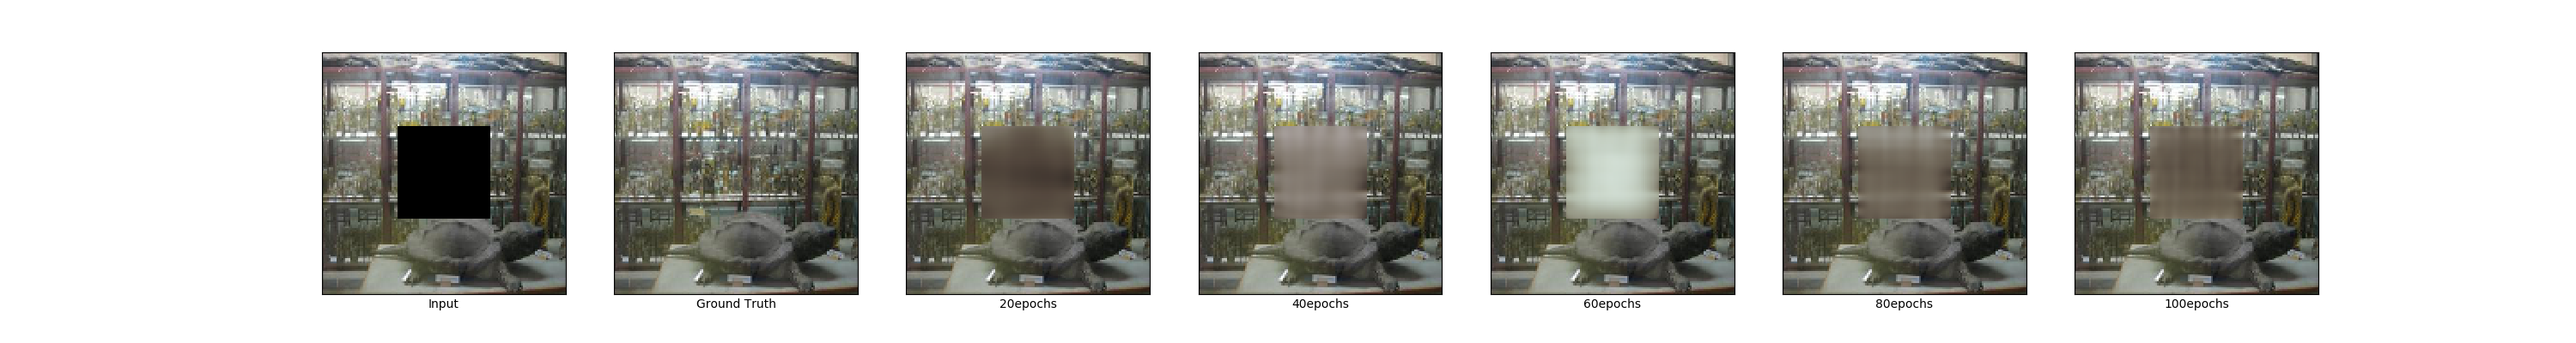
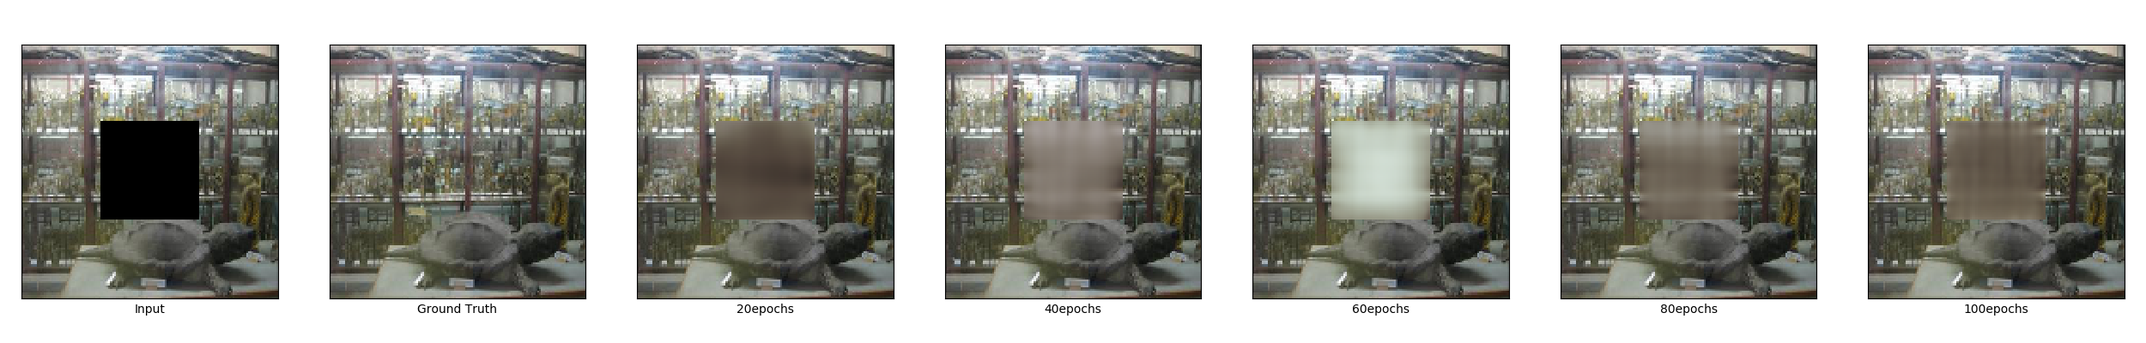
出力画像サイズ調整

diff --git a/gather_perdicts.py b/gather_perdicts.py
@@ -52,6 +52,7 @@ for image, filename in zip(images, filenames):
 
     def plot_image(_img, _label, _num):
         plt.subplot(1, 7, _num)
+        plt.subplots_adjust(left=0.01, right=0.99, top=0.99, bottom=0.01)
         plt.imshow(_img)
         # plt.axis('off')
         plt.gca().get_xaxis().set_ticks_position('none')
@@ -60,7 +61,7 @@ for image, filename in zip(images, filenames):
         plt.tick_params(labelleft='off')
         plt.xlabel(_label)
 
-    plt.figure(figsize=(30, 4))
+    plt.figure(figsize=(25, 4))
     plot_image(image[0], 'Input', 1)
     plot_image(image[1], 'Ground Truth', 2)
     plot_image(image[2], '20epochs', 3)
